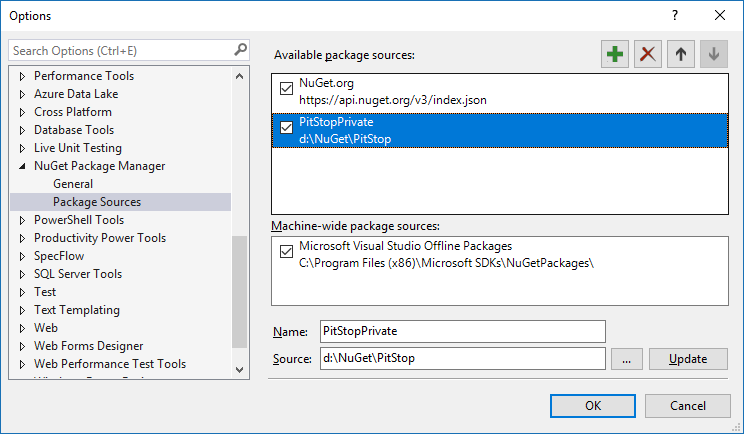
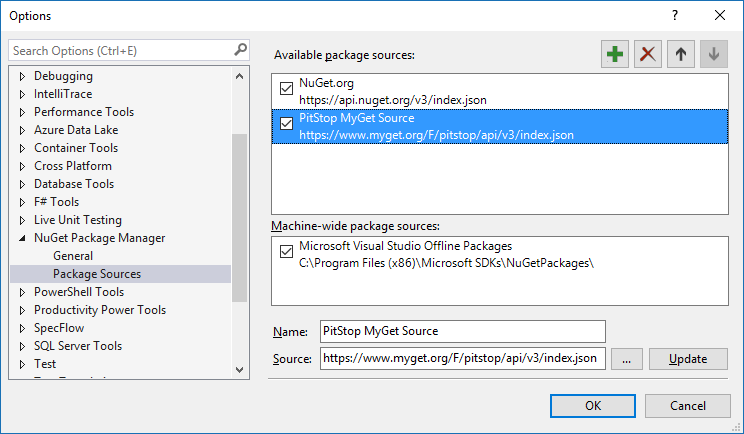
Made solution more non-Windows user friendly.

diff --git a/src/NotificationService/NotificationManager.cs b/src/NotificationService/NotificationManager.cs
@@ -115,17 +115,12 @@ namespace Pitstop.NotificationService
                 body.AppendLine($"Greetings,\n");
                 body.AppendLine($"The PitStop crew");
 
-                using (TransactionScope tx = new TransactionScope(TransactionScopeAsyncFlowOption.Enabled))
-                {
-                    // sent notification
-                    await _emailNotifier.SendEmailAsync(
-                        customer.EmailAddress, "noreply@pitstop.nl", "Vehicle maintenance reminder", body.ToString());
+                // sent notification
+                await _emailNotifier.SendEmailAsync(
+                    customer.EmailAddress, "noreply@pitstop.nl", "Vehicle maintenance reminder", body.ToString());
 
-                    // remove jobs for which a notification was sent
-                    await _repo.RemoveMaintenanceJobsAsync(jobsPerCustomer.Select(job => job.JobId));
-
-                    tx.Complete();
-                }
+                // remove jobs for which a notification was sent
+                await _repo.RemoveMaintenanceJobsAsync(jobsPerCustomer.Select(job => job.JobId));
             }
         }
     }

diff --git a/README.md b/README.md
@@ -168,11 +168,11 @@ The Visual Studio solution contains several files and folders. Most folders corr
 
 - **Solution items**
 	- **ClearDatabases.sql** : a sql script to empty all the SQL databases of the solution.
-	- **CopyNuGetFiles.ps1** : copy NuGet packages from the private NuGet folder (used for Docker build).
 	- **docker-compose.yml** : the docker-compose file for the application.
-	- **RebuildAllDockerImages.ps1** : do a docker build of all the projects in the solution.
-	- **RemoveUnusedImages.ps1** : removes "dangling" docker images (without a name).
-	- **StopAndRemoveAllContainers.ps1** : stops and removes all containers.
+	- **RebuildAllDockerImages.ps1** / **RebuildAllDockerImages.sh** : do a docker build of all the projects in the solution.
+	- **RemoveUnusedImages.ps1** / **RemoveUnusedImages.sh** : removes "dangling" docker images (without a name).
+	- **StopAndRemoveAllContainers.ps1** / **StopAndRemoveAllContainers.sh** : stops and removes all containers.
+	- **nuget.config** : config file for NuGet containing the NuGet feeds used by the solution.
 - **AuditlogService** : the AuditLog service.
 - **CustomerManagementAPI** : the Web API for managing customer data ("CRM").
 - **Infrastructure** - an infrastructural component with reusable stuff. 
@@ -184,39 +184,33 @@ The Visual Studio solution contains several files and folders. Most folders corr
 - **WorkshopManagementAPI** - the Web API for managing workshop data.
 - **WorkshopManagementEventHandler** - the event-handler picking up events and creating the read-model for the WorkshopManagement bounded-context.
 
+> Each project (with the exception of *Infrastructure*) contains a *Dockerfile* and a *BuildDockerImage * script. The script only contains the Docker Build command for building the image. By starting this script (or by manually executing a Docker Build command) inside a certain project folder, the Docker image will be created. 
+
 ## Getting started
 In order to run the application you need to take several steps. This description assumes you're developing on a Windows machine using Visual Studio 2017 and already forked and pulled the latest version of the source-code from the repo.
 
 > In the `docker-commpose.yml` file in the root of the solution folder there are some credentials specified for components that need them. These are also used by the different services that use these components (specified in config files): SQL Server login: sa / 8jkGh47hnDw89Haq8LN2, Rabbit MQ login: rabbitmquser / DEBmbwkSrzy9D1T9cJfa
 
 - Satisfy prerequisites
-    - Make sure you have Docker for Windows installed and running smoothly. This sample only uses Linux based containers. Also make sure everything is configured correctly in order to pull Docker images from the public Docker hub.
+    - Make sure you have Docker installed and running smoothly on your machine. This sample only uses Linux based containers. Also make sure everything is configured correctly in order to pull Docker images from the public Docker hub.
     - Increase the amount of memory dedicated to Docker to at least 4 GB. You can do this on the *Advanced* tab of the Docker settings dialog:
 
 	![](img/docker-resources.png) 
 
-    - Install Gulp. The Web project uses this during the build.
+- Open the PitStop solution in Visual Studio.  
 
-- Create private NuGet source
-   To prevent project-references between projects in the solution, I've used a folder on my local file-system as a private NuGet feed. 
-
-   Create a folder somewhere on your local file-system to act as your private NuGet feed (my default is `d:\NuGet\PitStop`). Open Visual Studio and configure the NuGet sources and add the local feed using the folder you just created: 
+- Add NuGet source
+   To prevent project-references between projects in the solution, I've used a public MyGet feed for shared components. The URI for this feed is: `https://www.myget.org/F/pitstop/api/v3/index.json`. This feed contains only the Infrastructure package. Open Visual Studio and configure the NuGet sources and add the MyGet feed: 
 
    ![Add private NuGet feed](img/add-private-nuget-feed.png).
 
-- Open the PitStop solution in Visual Studio.  
-
-- Configure the private NuGet feed
-   You only need to do this if you configured a different folder as private feed than `d:\NuGet\PitStop`. Open the Infrastructure project and edit the file *Infrastructure\Properties\PublishProfiles\Infrastructure.FolderProfile.pubxml*. Change the *PublishDir* setting to the folder you created. Open the file solution item *CopyNuGetFiles.ps1* and change the folder in the last line of the script to the folder you created.
-
-- Publish Infrastructure package
-   In order to reference the Infrastructure package from other projects, we need to publish it. Right click on the Infrastructure project and select the option *Publish*. In the dialog that is shown, click the *Publish* button. A PitStop.Infrastructure NuGet package file should appear in your private NuGet feed folder.
+   > The MyGet feed is read-only. So if you want to make changes to the InfraStructure package, create a pull request with the necessary changes (don't forget to update the version of the package). I will then push the latest version of the package to the MyGet feed.
 
 - Rebuild solution
    To make sure everything is setup correctly, do a Rebuild All of the solution. This will also restore all the NuGet packages used throughout the solution. If no errors occur, you're good to go.
 
 - Build docker images
-   Open up a Powershell window and go to the `Pitstop/src` folder. Then execute the `RebuildAllDockerImages.ps1` script. This will rebuild all the Docker images for all the projects. Watch the output for any errors. After the images are built, you could check whether they are all there using the `docker images` command. This should yield something like this: 
+   Open up a Powershell window and go to the `Pitstop/src` folder. Then execute the `RebuildAllDockerImages` script. This will rebuild all the Docker images for all the projects. Watch the output for any errors. After the images are built, you could check whether they are all there using the `docker images` command. This should yield something like this: 
 
    ![](img/docker-images.png)
 
@@ -227,7 +221,7 @@ In order to run the application you need to take several steps. This description
 	>
 	> ![](img/restart-docker.png)
 
-   Because this will start everything in the foreground, you will see all the logging being emitted from the different components. You will probably see a couple of *Unable to connect to bla, retrying in 5 sec.* messages in there. This is expected and not a problem. This is Polly doing its work to make sure that failures that occur when calling a component that is still starting up are handled gracefully. 
+   Because this will start everything in the foreground, you will see all the logging being emitted from the different components. You will probably see a couple of *Unable to connect to RabbitMQ/SQL Server, retrying in 5 sec.* messages in there. This is expected and not a problem. This is Polly doing its work to make sure that failures that occur when calling a component that is still starting up are handled gracefully. 
 
    The first time the services are started, the necessary databases are automatically created. You could check this by connecting to the SQL Server using SSMS (server *localhost*, port 1434; separate the server and port with a comma in SSMS: `localhost,1434`) and looking at the different databases:
 
